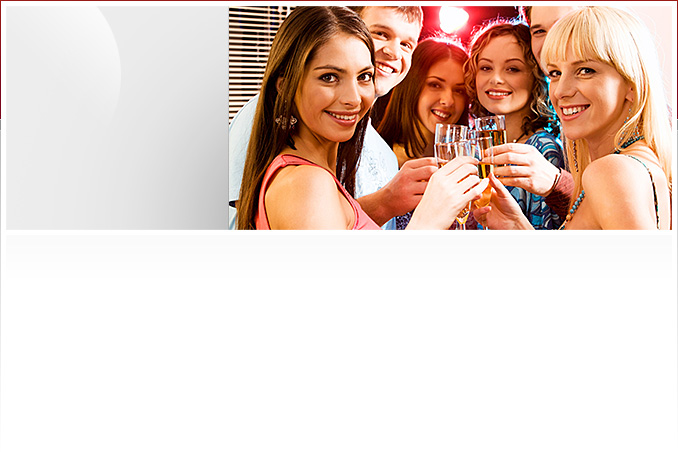
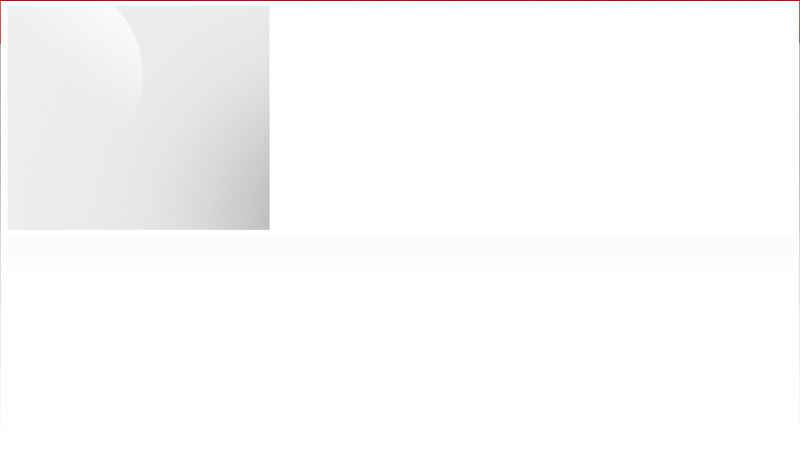
site images

Changed region(s): [[0.3097, 0.0, 1.0, 0.5265]]

diff --git a/public/stylesheets/styles1.css b/public/stylesheets/styles1.css
@@ -34,23 +34,18 @@ blockquote, q {
 quotes : "" "";
 }
 
-a {text-decoration: underline; color: #0051a4; }
+a {text-decoration: none; color: #0051a4; }
 /*******************************************************/
-body { margin: 0px; padding: 0px; background:#fff url(/images/b_body.gif) 0 0 repeat-x; color: #6d6c67; font-family: Helvetica, Arial, Sans-Serif; font-style: normal; font-variant: normal; font-weight: normal; font-size: 13px; line-height: normal; }
+body { margin: 0px; padding: 0px; background:#fff url(../images/b_body.gif) 0 0 repeat-x; color: #6d6c67; font-family: Helvetica, Arial, Sans-Serif; font-style: normal; font-variant: normal; font-weight: normal; font-size: 13px; line-height: normal; }
 
 
 h1 {font-size: 36px; color: #ffe05b; font-weight: bold;}
-h1 img{margin-left:0px;}
 h1 span {font-size: 25px; color: #fff; font-weight: bold;}
-
-p a{color:#ed9d04;text-decoration:underline;}
-
-p a:hover{text-decoration:none;}
 
 
 .fieldWithErrors {
   padding: 2px;
-  background-color:red;
+  background-color: red;
   display: table;
 }
 
@@ -97,7 +92,7 @@ ul{list-style-type:none;}
 .header_links{ float:right; margin: 20px 40px 0px 0px; height:15px; color: #fff;}
 .header_links a{ color: #fff; font-weight: bold;}
 
-#container{width:800px; margin: 0 auto; position:relative; padding: 10px; min-height:500px; height:auto !important; height:500px;}
+#container{width:678px; margin: 0 auto; position:relative; padding: 10px; min-height:500px; height:auto !important; height:500px;}
 #container_wide{width:97%; margin: 0 auto;   padding: 15px; min-height:500px; height:auto !important; height:500px;}
 
 /********************************related to fields***************************************/
@@ -131,9 +126,9 @@ input.textbox-small:focus, textarea:focus{
 
 /* TOP */
 
-#topPan{width:678px; position:relative; clear:both; height:60px}
+#topPan{width:678px; position:relative; clear:both; height:80px}
 
-#topPan ul.menu{position:absolute; top:00px; left:20px; width:650px}
+#topPan ul.menu{position:absolute; top:30px; left:20px; width:650px}
 #topPan ul.menu li{float:left; height:45px; margin-right:35px}
 #topPan ul.menu li a{display:block; font-weight: bold; color: #fff; font-size: 16px;}
 #topPan ul.menu li a.active{color: #fdc758; }
@@ -142,12 +137,11 @@ input.textbox-small:focus, textarea:focus{
 
 /* CONTENT */
 
-#content{width:800px; position:relative; clear:both; background: #fff url(/images/b_header.jpg) 0 0 no-repeat}
+#content{width:678px; position:relative; clear:both; background: #fff url(../images/b_header.jpg) 0 0 no-repeat}
 
-#logo_left{float:left;margin:25px 0px 0px 20px;}
-#logo_right{float:right;margin:7px 5px 0px 0px;}
-#incontent{width:760px; position:relative; padding:40px 0 0 0; margin:0 auto;  }
-#incontent p{margin: 20px 0px 20px 0px; font-size: 14px;color:#534f4f;text-align:justify;}
+#logo{position:absolute; top:50px; left:20px}
+#incontent{width:632px; position:relative; padding:255px 0 0 0; margin:0 auto;  }
+#incontent p{margin: 20px 0px 20px 0px; font-size: 14px;}
 #incontent h1{margin: 0px 0px 0px 0px; font-size: 25px; line-height: normal; color: #d50000; font-style: italic;}
 #incontent h2{margin: 0px 0px 0px 0px; font-size: 20px; line-height: normal; color: #db9704;}
 #incontent ol li{margin: 10px 0px 10px 0px;}
